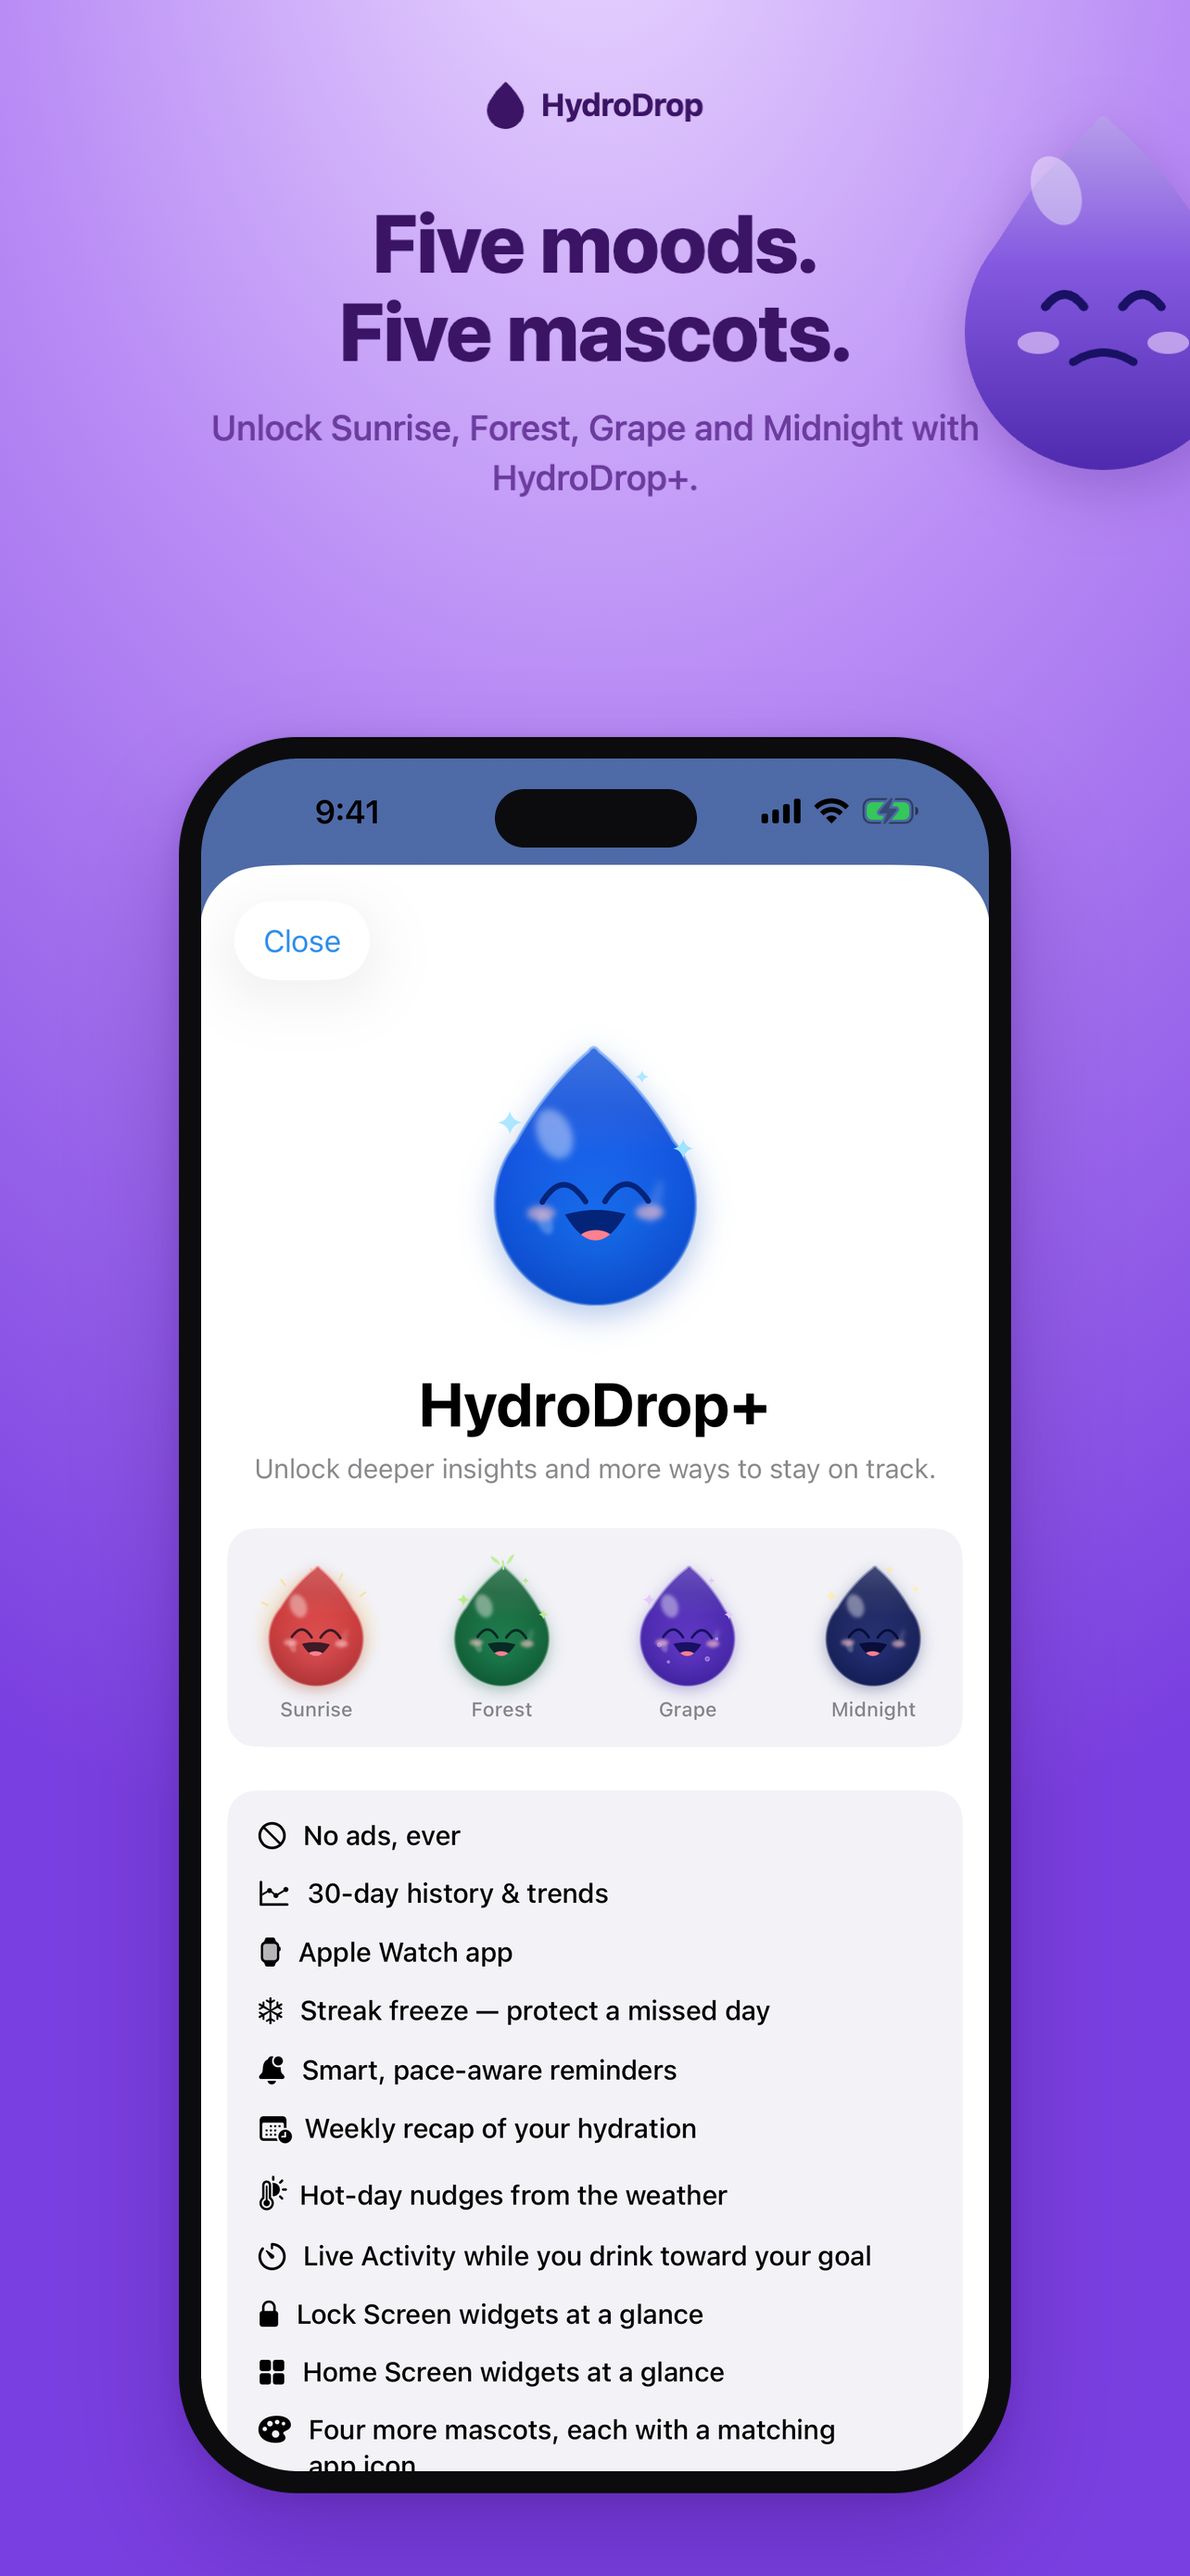
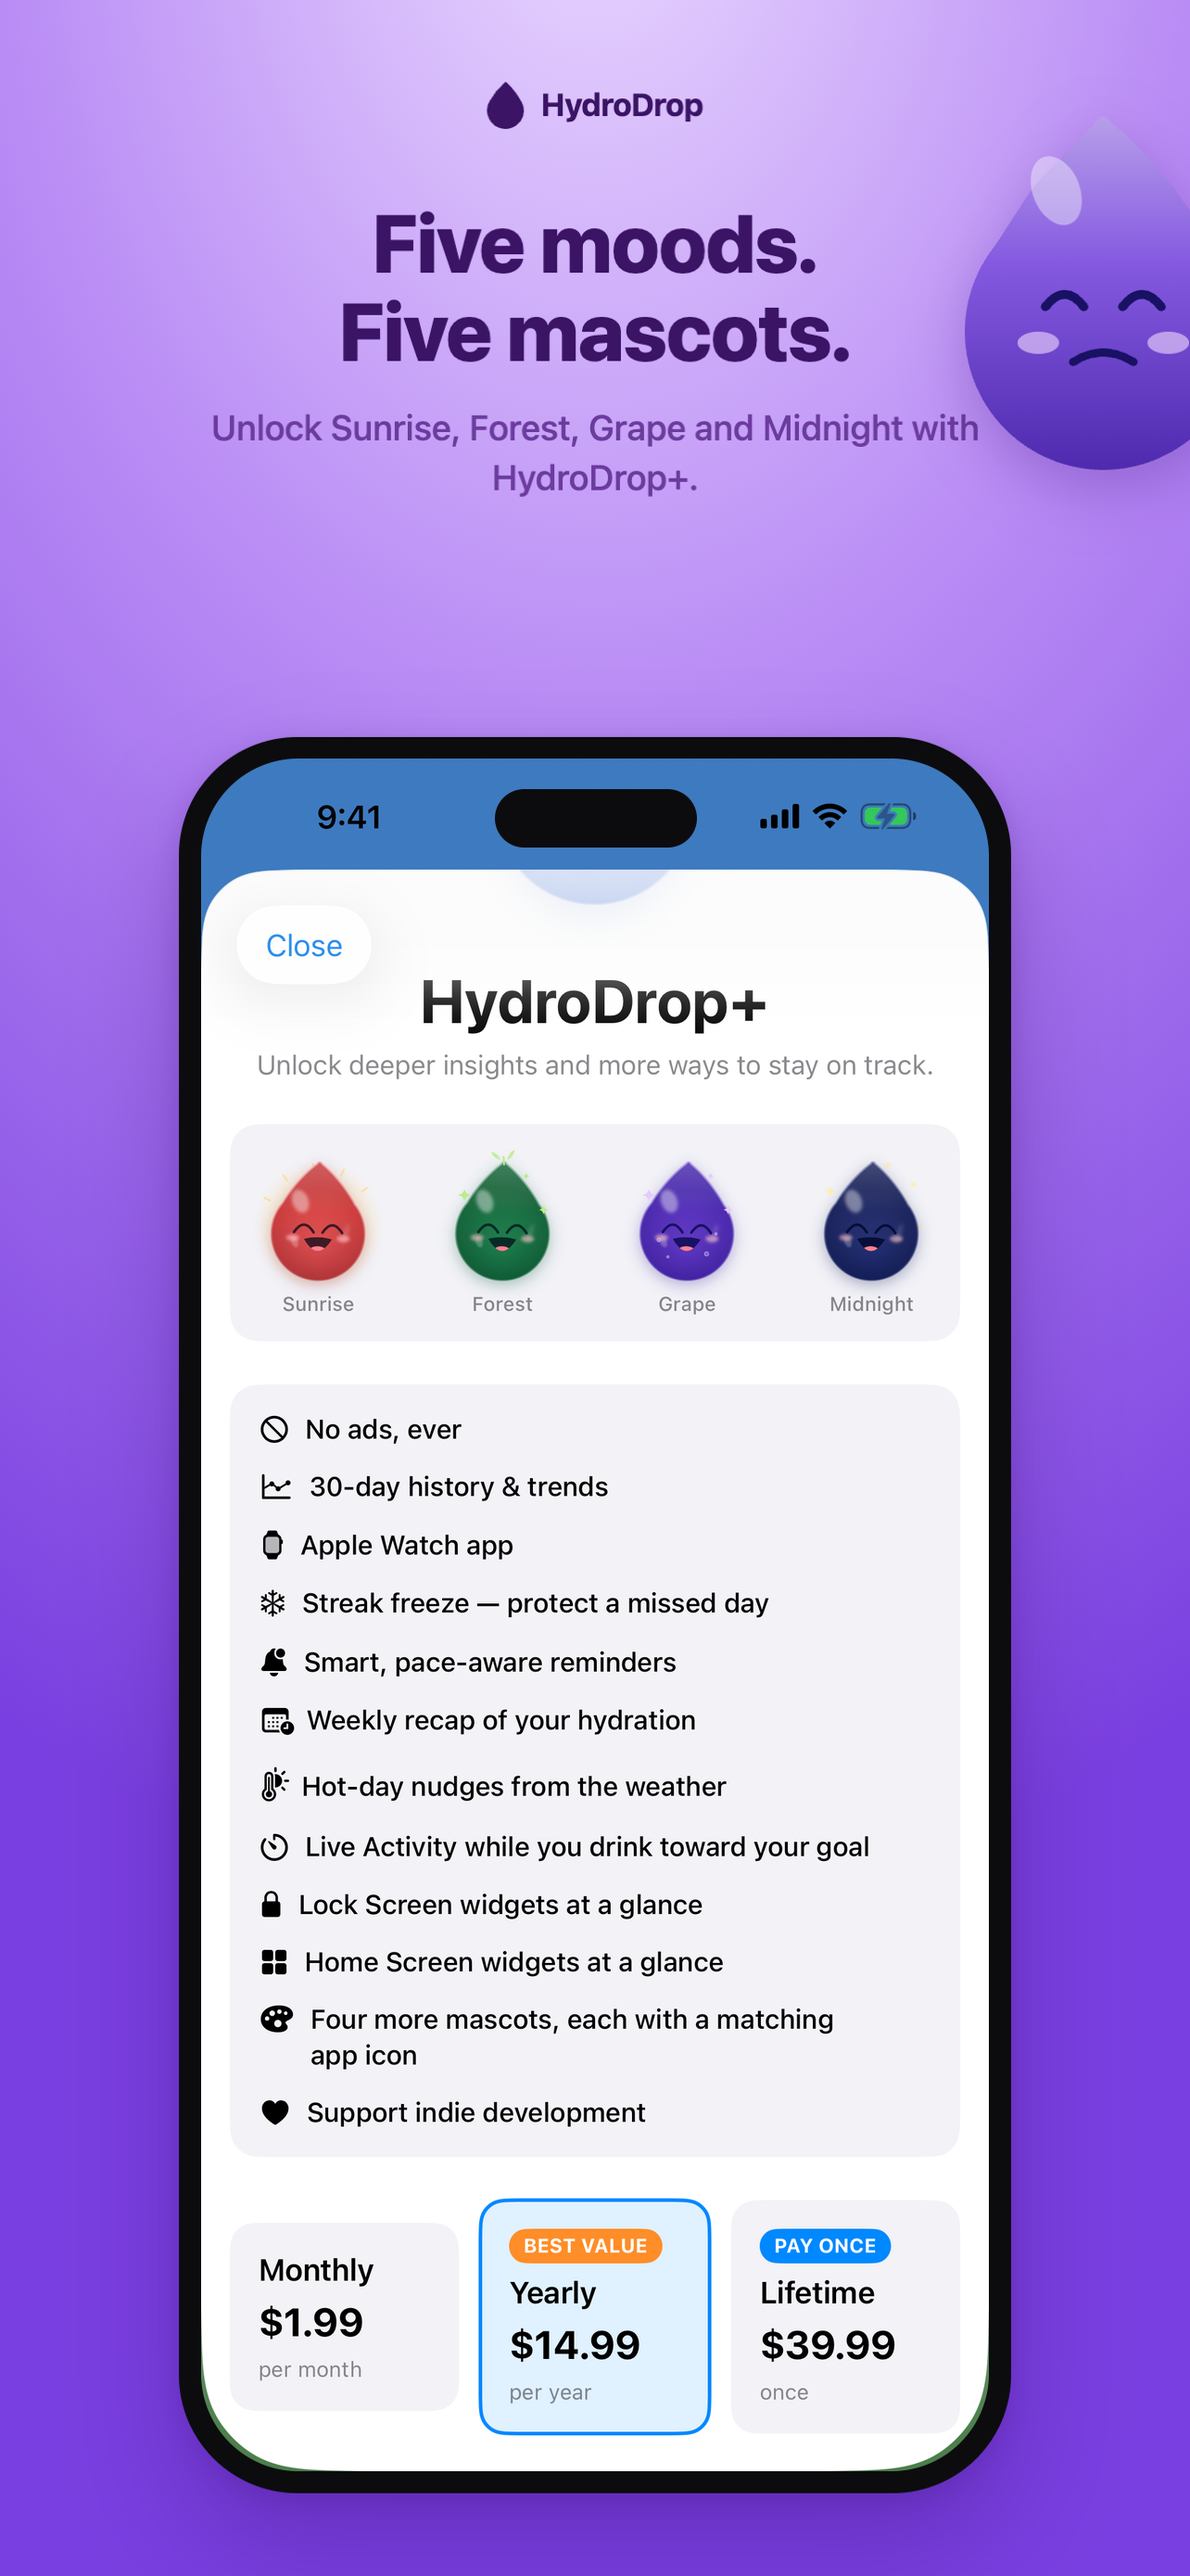
Show the paywall's plans, Lifetime included, in the App Store images
The paywall capture behind the mascots image has only ever shown the top of
the paywall, so the plans, and now Lifetime, never appeared in it. The
screenshot test now scrolls until Monthly, Yearly and Lifetime rest just
above the bottom edge. That keeps the title and the four mascots in view
above them; resting them any higher takes the title into the navigation
bar's fade.

The captures are also always in daylight now. The World follows the clock,
and the Today in the old images was taken at 07:43 and drawn at dawn, while
a run in the evening drew it at night.

The free-user tests, the screenshots and PaywallDiagnosticUITests, launch
with -UITestIgnorePurchases, so a purchase left on the simulator can't make
them a subscriber's. If the app comes up as a HydroDrop+ user anyway, they
stop with a message that says so instead of timing out further on.

02-today, 03-history and 04-skins are rebuilt from the new captures for both
the 6.9-inch and 6.5-inch sets, following the recipe in CLAUDE.md, with
everything outside each phone's screen unchanged. History's dates move on,
and the Settings capture shows the rows Settings has now.

diff --git a/HydroDropScreenshotUITests/ScreenshotUITests.swift b/HydroDropScreenshotUITests/ScreenshotUITests.swift
@@ -28,7 +28,13 @@ final class ScreenshotUITests: XCTestCase {
         // As a US user: in the EEA, the UK and Switzerland the app shows no ads, so the
         // Settings upgrade card and the paywall leave out "No ads", and the App Store
         // captures would change with whatever region the simulator happens to be set to.
-        app.launchArguments = ["-UITestSeedHistory", "-AdRegion", "USA"]
+        // In daylight too: the World follows the clock, so a run in the evening drew
+        // Today, and the sky behind the paywall, at dusk or at night. And as a free user
+        // whatever the simulator holds: a Lifetime bought on one by hand, while trying the
+        // paywall, used to make this run a Lifetime owner's and fail it at History.
+        app.launchArguments = [
+            "-UITestSeedHistory", "-UITestIgnorePurchases", "-AdRegion", "USA", "-WorldTime", "day",
+        ]
         app.launch()
 
         logTodaysDrinks(app)
@@ -45,6 +51,14 @@ final class ScreenshotUITests: XCTestCase {
         // Scrolling brings up the scroll indicator down the right edge, which takes a
         // moment to fade and otherwise ends up in the capture.
         if swipes > 0 { sleep(2) }
+        // Only a free user's Today links to the other mascots. Stop here, before the first
+        // capture, if the app came up as a HydroDrop+ user after all, rather than write a
+        // subscriber's Today and time out later waiting for History's seven days.
+        XCTAssertTrue(
+            app.buttons["More looks"].waitForExistence(timeout: 5),
+            "The app launched as a HydroDrop+ user, not a free one. -UITestIgnorePurchases "
+                + "should hide the simulator's StoreKit test purchases: check that StoreManager still reads it."
+        )
         save(app.screenshot(), name: "01-today")
 
         app.tabBars.buttons["History"].tap()
@@ -68,7 +82,37 @@ final class ScreenshotUITests: XCTestCase {
         let price = app.staticTexts.containing(NSPredicate(format: "label CONTAINS[c] '$'")).firstMatch
         XCTAssertTrue(price.waitForExistence(timeout: 25), "the paywall's plans never loaded")
         XCTAssertTrue(app.staticTexts["No ads, ever"].exists, "the paywall was captured as a user in a country without ads")
+
+        // The plans, Lifetime among them, sit below the feature list, so a capture of the
+        // paywall as it opens showed none of them. Scroll until they rest just above the
+        // bottom edge, which on a Pro Max keeps the title and the four mascots in view.
+        // No higher: the bar fades whatever scrolls under it, and any higher takes the
+        // title into that fade. The big droplet above the title is left as a faint glow
+        // under the bar, since hiding it means scrolling the title away too.
+        let plans = app.buttons.matching(NSPredicate(
+            format: "label CONTAINS 'per month' OR label CONTAINS 'per year' OR label ENDSWITH 'once'"
+        ))
+        XCTAssertEqual(plans.count, 3, "the paywall didn't offer Monthly, Yearly and Lifetime")
+        let lowestPlanEdge = { (0..<plans.count).map { plans.element(boundBy: $0).frame.maxY }.max() ?? 0 }
+        let screenBottom = app.windows.firstMatch.frame.maxY
+        scrollUp(app, by: lowestPlanEdge() - (screenBottom - 20))
+        for index in 0..<plans.count {
+            let plan = plans.element(boundBy: index)
+            XCTAssertTrue(plan.isHittable && plan.frame.maxY <= screenBottom, "\(plan.label) isn't fully on screen")
+        }
+        // The scroll brought up the scroll indicator, as on Today; let it fade first.
+        sleep(2)
         save(app.screenshot(), name: "04-paywall")
+    }
+
+    /// Drags the frontmost scroll view's content up by `points`: slowly, and held at the
+    /// end, so it stops where it's put instead of flinging on. A scroll view lets a finger
+    /// travel about 10 points before the content moves, so the drag goes that much further.
+    private func scrollUp(_ app: XCUIApplication, by points: CGFloat) {
+        guard points > 0 else { return }
+        let start = app.windows.firstMatch.coordinate(withNormalizedOffset: CGVector(dx: 0.9, dy: 0.7))
+        let end = start.withOffset(CGVector(dx: 0, dy: -(points + 10)))
+        start.press(forDuration: 0.05, thenDragTo: end, withVelocity: .slow, thenHoldForDuration: 0.5)
     }
 
     /// History as a HydroDrop+ subscriber sees it: thirty days rather than seven, and no
@@ -77,7 +121,7 @@ final class ScreenshotUITests: XCTestCase {
     /// launch starts from no entitlement, so the forced one doesn't carry over.
     func testCaptureSubscriberScreenshots() throws {
         let app = XCUIApplication()
-        app.launchArguments = ["-UITestSeedHistory", "-UITestForceSubscribed", "-AdRegion", "USA"]
+        app.launchArguments = ["-UITestSeedHistory", "-UITestForceSubscribed", "-AdRegion", "USA", "-WorldTime", "day"]
         app.launch()
 
         // The same day as the free captures, so today's bar matches across the set.

diff --git a/HydroDropScreenshotUITests/PaywallDiagnosticUITests.swift b/HydroDropScreenshotUITests/PaywallDiagnosticUITests.swift
@@ -8,8 +8,9 @@ final class PaywallDiagnosticUITests: XCTestCase {
     func testPaywallLoadsSubscriptionOptions() throws {
         let app = XCUIApplication()
         // A fresh simulator has no history, and first-launch onboarding would sit on top
-        // of the Settings button these tests drive.
-        app.launchArguments = ["-UITestSkipOnboarding"]
+        // of the Settings button these tests drive. Only a free user has the upgrade row,
+        // so purchases the simulator holds are ignored.
+        app.launchArguments = ["-UITestSkipOnboarding", "-UITestIgnorePurchases"]
         app.launch()
 
         // The first query after launch also waits out the launch itself, which a busy
@@ -17,8 +18,7 @@ final class PaywallDiagnosticUITests: XCTestCase {
         let settings = app.buttons["Settings"].firstMatch
         XCTAssertTrue(settings.waitForExistence(timeout: 30), "no Settings gear after launch")
         settings.tap()
-        let upgrade = app.buttons["Upgrade to HydroDrop+"]
-        XCTAssertTrue(upgrade.waitForExistence(timeout: 15), "no upgrade row in Settings")
+        let upgrade = try upgradeRow(in: app)
         upgrade.tap()
 
         // The fetch races a 15s timeout inside StoreManager, so allow more than that
@@ -63,8 +63,9 @@ final class PaywallDiagnosticUITests: XCTestCase {
     func testPaywallCanAlwaysBeClosed() throws {
         let app = XCUIApplication()
         // A fresh simulator has no history, and first-launch onboarding would sit on top
-        // of the Settings button these tests drive.
-        app.launchArguments = ["-UITestSkipOnboarding"]
+        // of the Settings button these tests drive. Only a free user has the upgrade row,
+        // so purchases the simulator holds are ignored.
+        app.launchArguments = ["-UITestSkipOnboarding", "-UITestIgnorePurchases"]
         app.launch()
 
         // The first query after launch also waits out the launch itself, which a busy
@@ -72,13 +73,34 @@ final class PaywallDiagnosticUITests: XCTestCase {
         let settings = app.buttons["Settings"].firstMatch
         XCTAssertTrue(settings.waitForExistence(timeout: 30), "no Settings gear after launch")
         settings.tap()
-        let upgrade = app.buttons["Upgrade to HydroDrop+"]
-        XCTAssertTrue(upgrade.waitForExistence(timeout: 15), "no upgrade row in Settings")
+        let upgrade = try upgradeRow(in: app)
         upgrade.tap()
 
         let close = app.buttons["Close"]
         XCTAssertTrue(close.waitForExistence(timeout: 10), "the paywall has no visible Close button")
         close.tap()
         XCTAssertTrue(upgrade.waitForExistence(timeout: 10), "the paywall did not dismiss")
+    }
+
+    /// Settings' upgrade row, which only a free user has. A HydroDrop+ user has an "is
+    /// active" row in its place, so the wait ends on whichever turns up first, and a
+    /// subscriber stops the test at once, with that said, instead of tapping a row that
+    /// isn't there after the full timeout.
+    private func upgradeRow(in app: XCUIApplication) throws -> XCUIElement {
+        let upgrade = app.buttons["Upgrade to HydroDrop+"]
+        let active = app.descendants(matching: .any)
+            .matching(NSPredicate(format: "label BEGINSWITH 'HydroDrop+' AND label CONTAINS 'is active'"))
+            .firstMatch
+        let deadline = Date().addingTimeInterval(15)
+        while Date() < deadline, !upgrade.exists, !active.exists {
+            usleep(250_000)
+        }
+        if active.exists {
+            XCTFail(
+                "The app launched as a HydroDrop+ user, not a free one. -UITestIgnorePurchases "
+                    + "should hide the simulator's StoreKit test purchases: check that StoreManager still reads it."
+            )
+        }
+        return try XCTUnwrap(upgrade.exists ? upgrade : nil, "no upgrade row in Settings")
     }
 }
